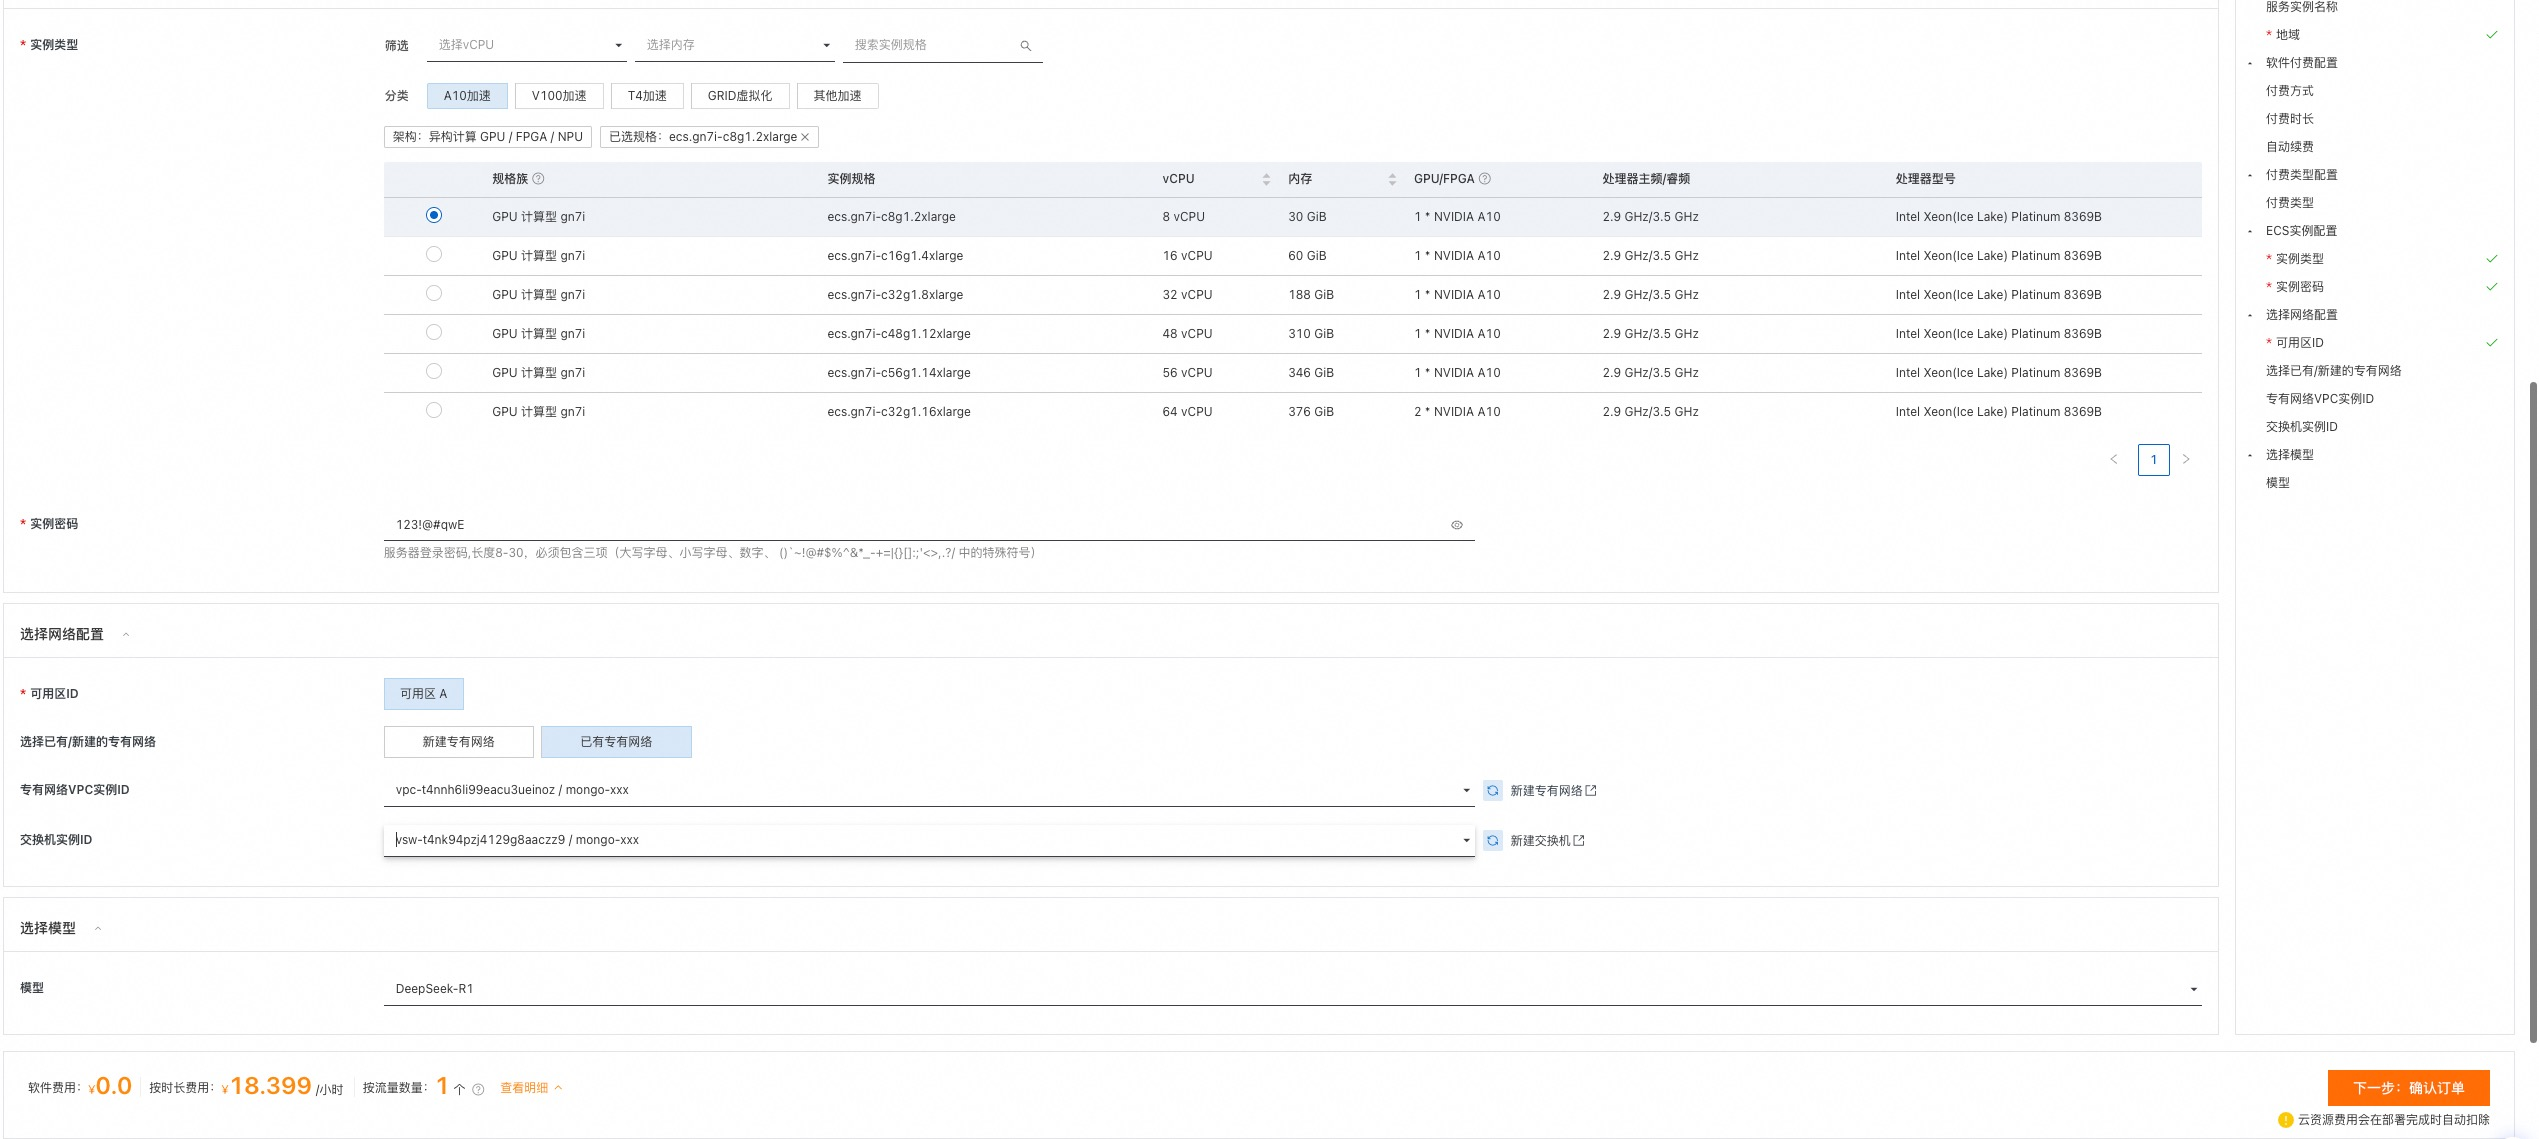
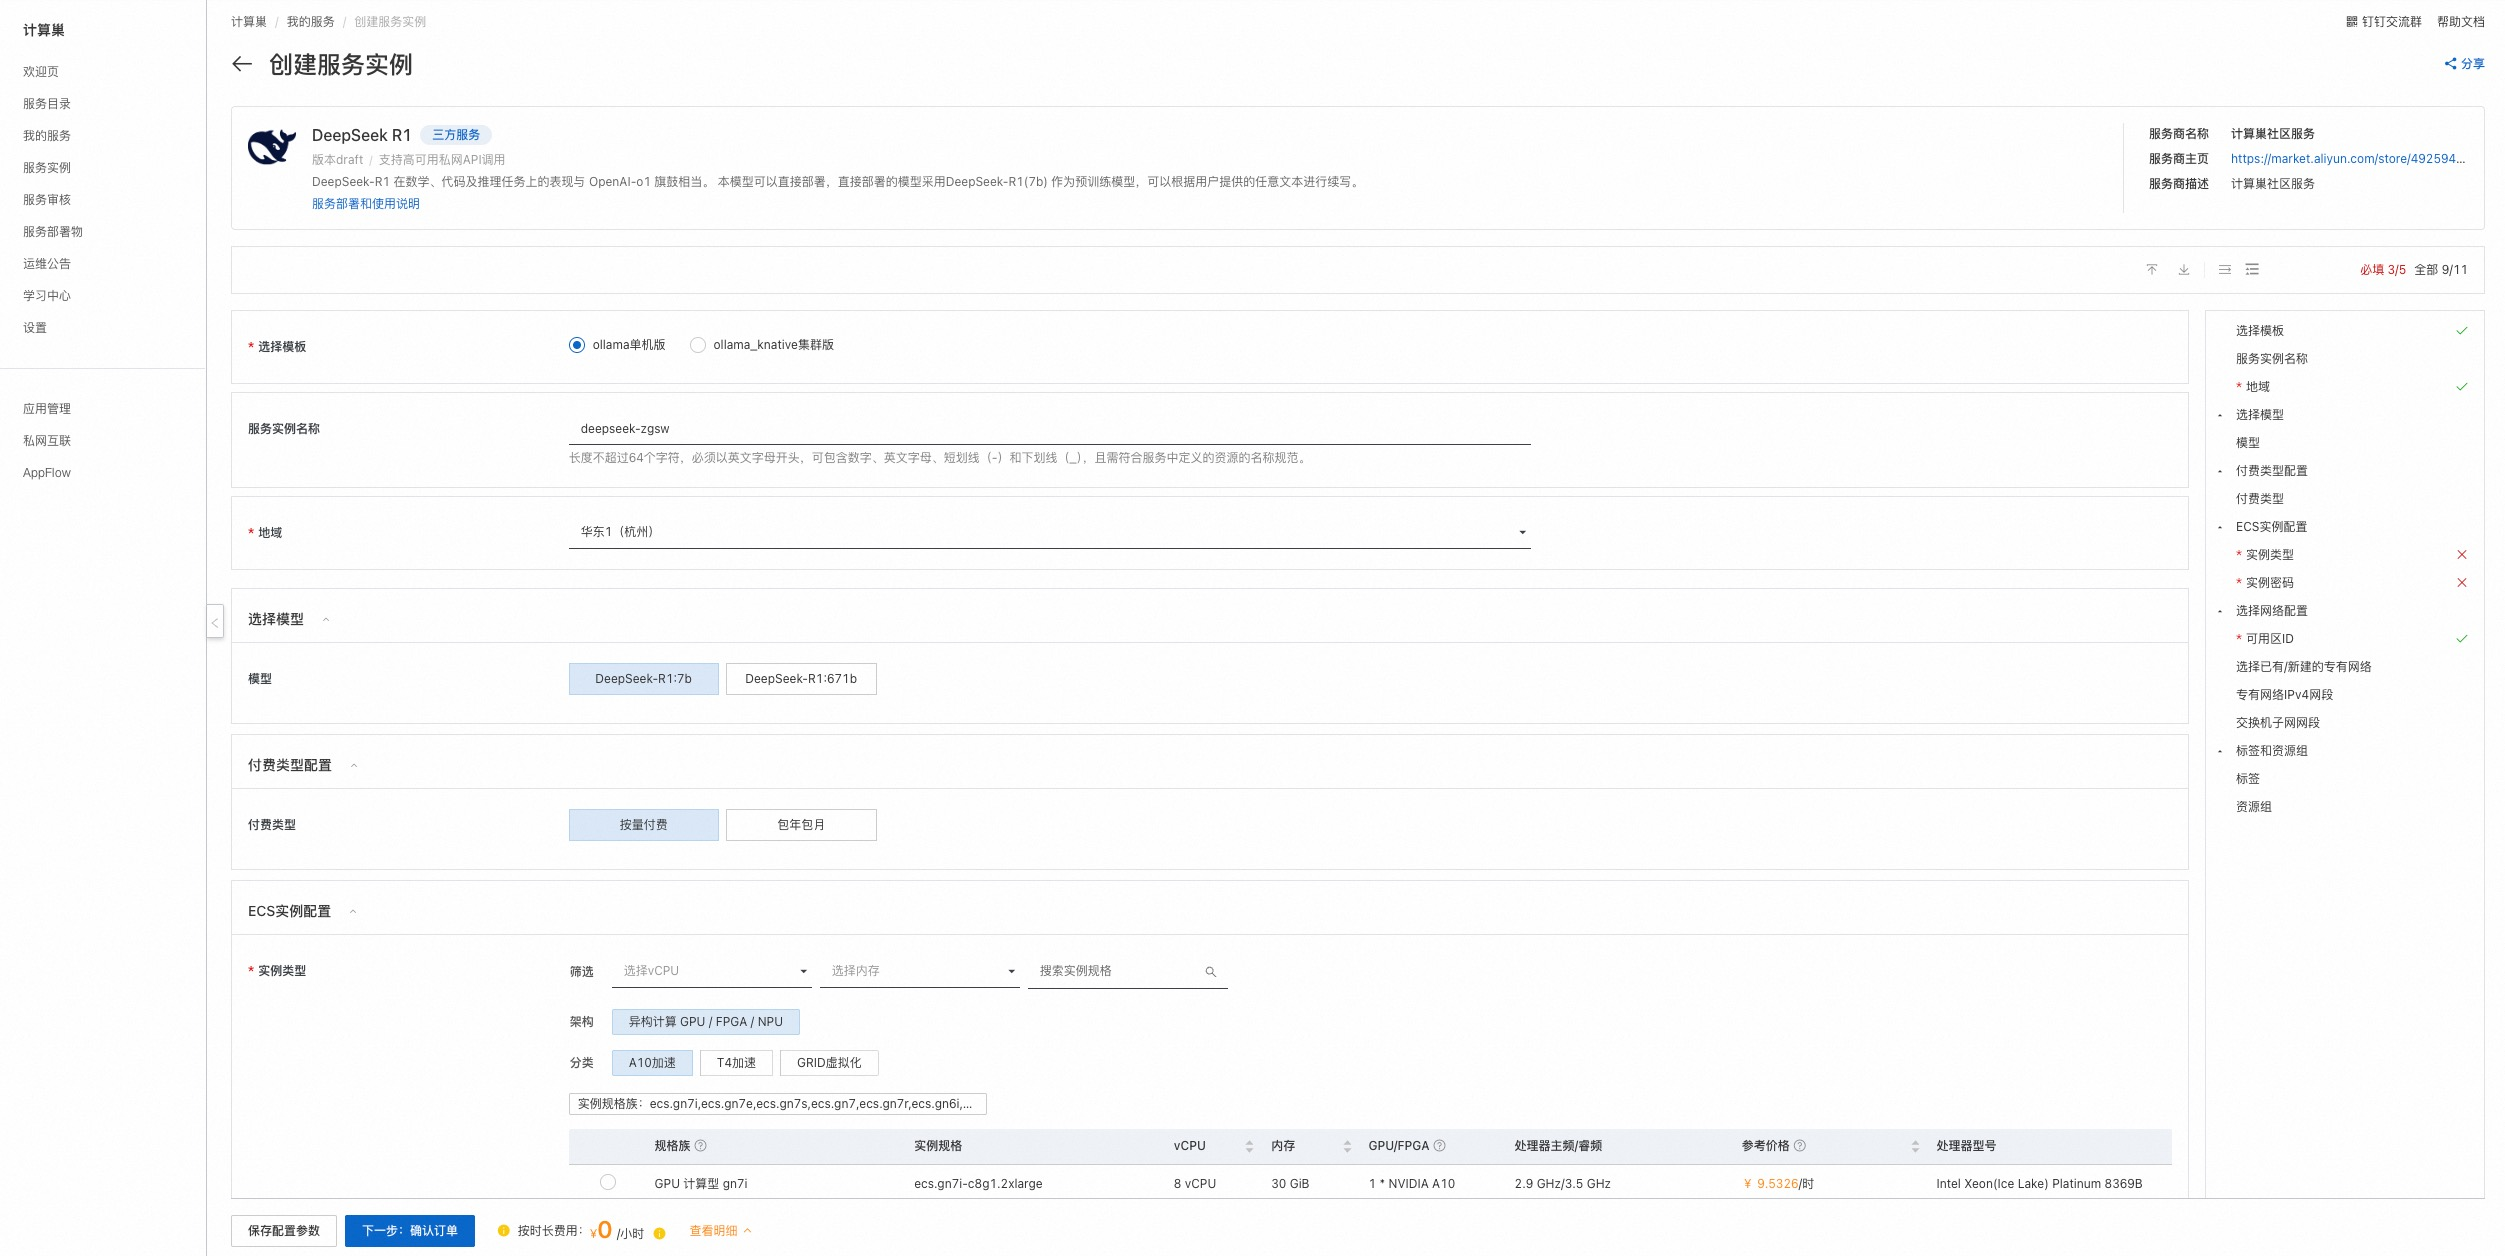
add docs

diff --git a/docs/index.md b/docs/index.md
@@ -1,4 +1,4 @@
-# DeepSeek R1部署文档
+# DeepSeek R1单机版部署文档
 
 ## DeepSeek-R1简介
 DeepSeek-R1是深度求索（DeepSeek）于2025年1月20日发布的开源人工智能大型语言模型。在数学、代码及推理任务上的表现与 OpenAI-o1 旗鼓相当。 DeepSeek-R1(7b)是 DeepSeek R1 的中端版本。其设计目标是将 DeepSeek R1 的强大推理能力转移到更小的模型中，以提高计算效率和部署灵活性。
@@ -31,7 +31,7 @@ DeepSeek社区版在阿里云上的费用主要涉及：
 
 ## 部署流程
 
-1. 单击[部署链接](https://computenest.console.aliyun.com/service/instance/create/cn-hangzhou?type=user&ServiceName=DeepSeek%20R1)，进入服务实例部署界面，根据界面提示填写参数，可以看到对应询价明细，确认参数后点击**下一步：确认订单**。注意：如果要使用70B的模型，推荐选用64GB以上显存的规格
+1. 单击[部署链接](https://computenest.console.aliyun.com/service/instance/create/cn-hangzhou?type=user&ServiceName=DeepSeek%20R1)，进入服务实例部署界面，模板选择ollama单机版，根据界面提示选择模型并填写参数，可以看到对应询价明细，确认参数后点击**下一步：确认订单**。注意：如果要使用70B的模型，推荐选用64GB以上显存的规格
     ![deploy.png](1.jpg)
 
 2. 确认订单完成后同意服务协议并点击**立即创建**。
